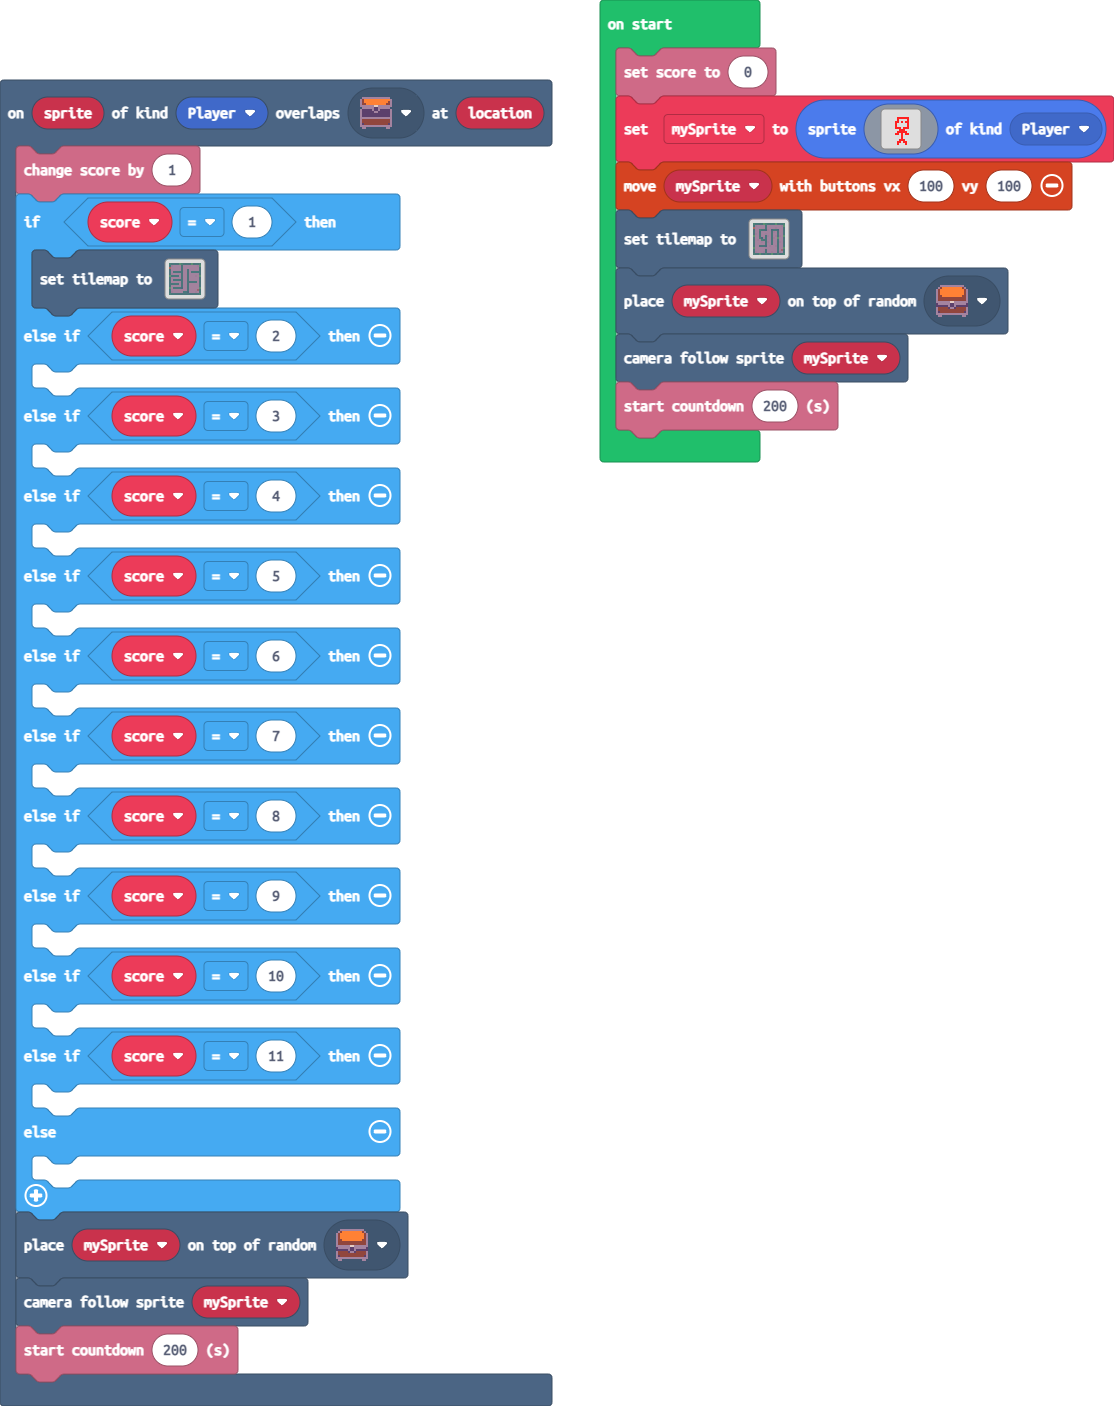
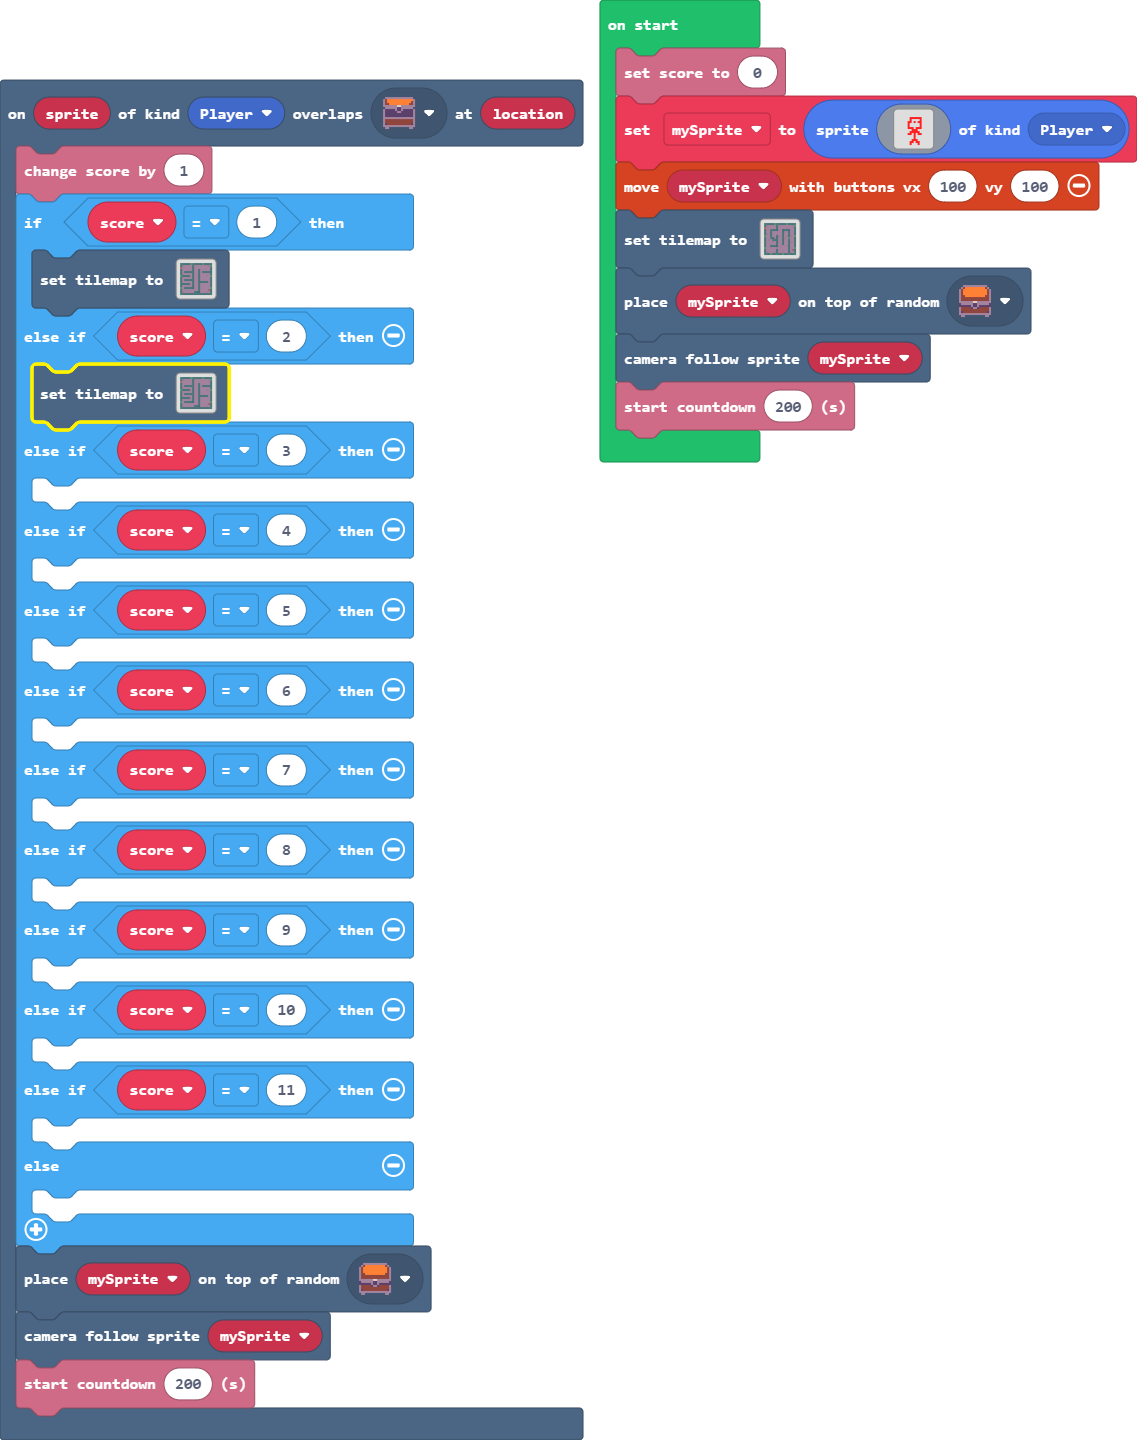
e

Changed region(s): [[0.0, 0.0, 1.0, 0.9787], [0.4883, 0.9787, 0.5189, 1.0]]

diff --git a/tilemap.g.ts b/tilemap.g.ts
@@ -81,6 +81,25 @@ namespace myTiles {
 . . . . . . . . . . . . . . . . 
 . . . . . . . . . . . . . . . . 
 `, [myTiles.transparency16,sprites.dungeon.greenOuterNorthWest,sprites.dungeon.greenOuterNorth0,sprites.dungeon.greenOuterNorthEast,sprites.dungeon.greenOuterEast0,sprites.dungeon.greenOuterSouthWest,sprites.dungeon.greenOuterSouth0,sprites.dungeon.greenOuterSouth1,sprites.dungeon.greenOuterSouthEast,sprites.dungeon.greenOuterWest1,sprites.dungeon.greenOuterWest0,sprites.dungeon.floorDark2,sprites.dungeon.greenOuterNorth1,sprites.dungeon.greenOuterEast1,sprites.dungeon.floorDark5,sprites.dungeon.greenOuterWest2,sprites.dungeon.greenOuterEast2,sprites.dungeon.greenOuterNorth2,sprites.dungeon.chestOpen,sprites.dungeon.chestClosed,sprites.dungeon.greenInnerSouthEast], TileScale.Sixteen);
+            case "level2":
+            case "level2":return tiles.createTilemap(hex`1000100000000000000000000000000000000000000000000000000000000000000000000000000000000000000000000000000000000000000000000000000000000000000000000000000000000000000000000000000000000000000000000000000000000000000000000000000000000000000000000000000000000000000000000000000000000000000000000000000000000000000000000000000000000000000000000000000000000000000000000000000000000000000000000000000000000000000000000000000000000000000000000000000000000000000000000000000000000000000000000000000000000000000000000000000000000000`, img`
+. . . . . . . . . . . . . . . . 
+. . . . . . . . . . . . . . . . 
+. . . . . . . . . . . . . . . . 
+. . . . . . . . . . . . . . . . 
+. . . . . . . . . . . . . . . . 
+. . . . . . . . . . . . . . . . 
+. . . . . . . . . . . . . . . . 
+. . . . . . . . . . . . . . . . 
+. . . . . . . . . . . . . . . . 
+. . . . . . . . . . . . . . . . 
+. . . . . . . . . . . . . . . . 
+. . . . . . . . . . . . . . . . 
+. . . . . . . . . . . . . . . . 
+. . . . . . . . . . . . . . . . 
+. . . . . . . . . . . . . . . . 
+. . . . . . . . . . . . . . . . 
+`, [myTiles.transparency16], TileScale.Sixteen);
         }
         return null;
     })

diff --git a/main.ts b/main.ts
@@ -4,7 +4,7 @@ scene.onOverlapTile(SpriteKind.Player, sprites.dungeon.chestOpen, function (spri
     if (score == 1) {
         tiles.setTilemap(tilemap`level_3`)
     } else if (score == 2) {
-    	
+        tiles.setTilemap(tilemap`level_3`)
     } else if (score == 3) {
     	
     } else if (score == 4) {
